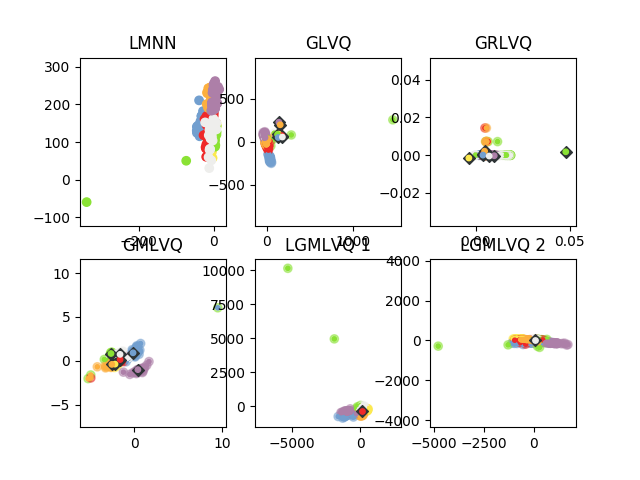
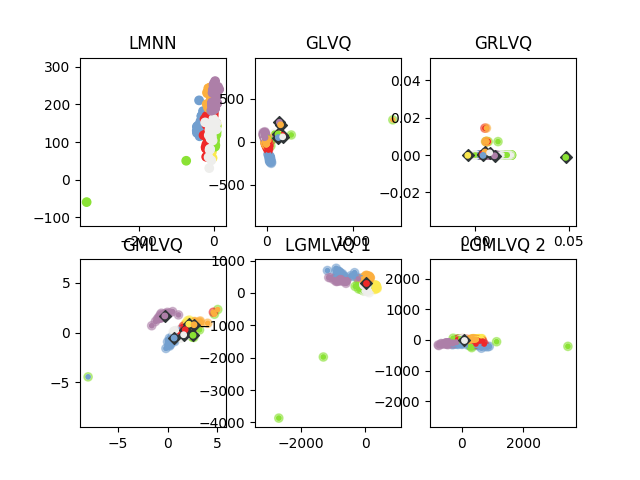
Pushing the docs for revision for branch: master, commit 72c1b3b9e6938310f164752b790ba2cb0652d63a

diff --git a/auto_examples/plot_benchmark.html b/auto_examples/plot_benchmark.html
@@ -177,8 +177,8 @@ and classification from each implementation. Because Glvq can’t project the da
 a PCA is used.</p>
 <img alt="../_images/sphx_glr_plot_benchmark_001.png" class="sphx-glr-single-img" src="../_images/sphx_glr_plot_benchmark_001.png" />
 <p class="sphx-glr-script-out">Out:</p>
-<div class="sphx-glr-script-out highlight-none notranslate"><div class="highlight"><pre><span></span>(&#39;variance coverd by projection:&#39;, 97.72361175875687)
-(&#39;variance coverd by projection:&#39;, 98.46641870021854)
+<div class="sphx-glr-script-out highlight-none notranslate"><div class="highlight"><pre><span></span>(&#39;variance coverd by projection:&#39;, 95.06013270079512)
+(&#39;variance coverd by projection:&#39;, 97.17190996838083)
 </pre></div>
 </div>
 <div class="line-block">
@@ -273,7 +273,7 @@ a PCA is used.</p>
 <span class="n">plt</span><span class="o">.</span><span class="n">show</span><span class="p">()</span>
 </pre></div>
 </div>
-<p><strong>Total running time of the script:</strong> ( 0 minutes  12.386 seconds)</p>
+<p><strong>Total running time of the script:</strong> ( 0 minutes  10.494 seconds)</p>
 <div class="sphx-glr-footer class sphx-glr-footer-example docutils container" id="sphx-glr-download-auto-examples-plot-benchmark-py">
 <div class="sphx-glr-download docutils container">
 <a class="reference download internal" download="" href="../_downloads/a7f670cf5f4a9d283c19341b866c3a66/plot_benchmark.py"><code class="xref download docutils literal notranslate"><span class="pre">Download</span> <span class="pre">Python</span> <span class="pre">source</span> <span class="pre">code:</span> <span class="pre">plot_benchmark.py</span></code></a></div>

diff --git a/auto_examples/plot_grmlvq.html b/auto_examples/plot_grmlvq.html
@@ -179,9 +179,9 @@ The projected data is shown in the right plot.</p>
 <img alt="../_images/sphx_glr_plot_grmlvq_001.png" class="sphx-glr-single-img" src="../_images/sphx_glr_plot_grmlvq_001.png" />
 <p class="sphx-glr-script-out">Out:</p>
 <div class="sphx-glr-script-out highlight-none notranslate"><div class="highlight"><pre><span></span>GRMLVQ:
-[0.7276588 0.2723412]
+[0.73412449 0.26587551]
 (&#39;variance coverd by projection:&#39;, 100.0)
-(&#39;classification accuracy:&#39;, 0.985)
+(&#39;classification accuracy:&#39;, 0.99)
 </pre></div>
 </div>
 <div class="line-block">
@@ -213,7 +213,7 @@ The projected data is shown in the right plot.</p>
 <span class="n">plt</span><span class="o">.</span><span class="n">show</span><span class="p">()</span>
 </pre></div>
 </div>
-<p><strong>Total running time of the script:</strong> ( 0 minutes  0.123 seconds)</p>
+<p><strong>Total running time of the script:</strong> ( 0 minutes  0.136 seconds)</p>
 <div class="sphx-glr-footer class sphx-glr-footer-example docutils container" id="sphx-glr-download-auto-examples-plot-grmlvq-py">
 <div class="sphx-glr-download docutils container">
 <a class="reference download internal" download="" href="../_downloads/70de408068c5619b5a4990e791de45cb/plot_grmlvq.py"><code class="xref download docutils literal notranslate"><span class="pre">Download</span> <span class="pre">Python</span> <span class="pre">source</span> <span class="pre">code:</span> <span class="pre">plot_grmlvq.py</span></code></a></div>

diff --git a/auto_examples/plot_lgmlvq.html b/auto_examples/plot_lgmlvq.html
@@ -181,7 +181,7 @@ The projected data is shown in the right plot.</p>
 <div class="sphx-glr-script-out highlight-none notranslate"><div class="highlight"><pre><span></span>LGMLVQ:
 (&#39;variance coverd by projection:&#39;, 100.0)
 (&#39;variance coverd by projection:&#39;, 100.0)
-(&#39;classification accuracy:&#39;, 0.795)
+(&#39;classification accuracy:&#39;, 0.855)
 </pre></div>
 </div>
 <div class="line-block">
@@ -212,7 +212,7 @@ The projected data is shown in the right plot.</p>
 <span class="n">plt</span><span class="o">.</span><span class="n">show</span><span class="p">()</span>
 </pre></div>
 </div>
-<p><strong>Total running time of the script:</strong> ( 0 minutes  0.312 seconds)</p>
+<p><strong>Total running time of the script:</strong> ( 0 minutes  0.272 seconds)</p>
 <div class="sphx-glr-footer class sphx-glr-footer-example docutils container" id="sphx-glr-download-auto-examples-plot-lgmlvq-py">
 <div class="sphx-glr-download docutils container">
 <a class="reference download internal" download="" href="../_downloads/7fcc01c4eb4286b99cd6ba954dfe04ec/plot_lgmlvq.py"><code class="xref download docutils literal notranslate"><span class="pre">Download</span> <span class="pre">Python</span> <span class="pre">source</span> <span class="pre">code:</span> <span class="pre">plot_lgmlvq.py</span></code></a></div>

diff --git a/auto_examples/plot_gmlvq.html b/auto_examples/plot_gmlvq.html
@@ -180,7 +180,7 @@ The projected data is shown in the right plot.</p>
 <p class="sphx-glr-script-out">Out:</p>
 <div class="sphx-glr-script-out highlight-none notranslate"><div class="highlight"><pre><span></span>GMLVQ:
 (&#39;variance coverd by projection:&#39;, 100.0)
-(&#39;classification accuracy:&#39;, 1.0)
+(&#39;classification accuracy:&#39;, 0.995)
 </pre></div>
 </div>
 <div class="line-block">
@@ -211,7 +211,7 @@ The projected data is shown in the right plot.</p>
 <span class="n">plt</span><span class="o">.</span><span class="n">show</span><span class="p">()</span>
 </pre></div>
 </div>
-<p><strong>Total running time of the script:</strong> ( 0 minutes  0.112 seconds)</p>
+<p><strong>Total running time of the script:</strong> ( 0 minutes  0.162 seconds)</p>
 <div class="sphx-glr-footer class sphx-glr-footer-example docutils container" id="sphx-glr-download-auto-examples-plot-gmlvq-py">
 <div class="sphx-glr-download docutils container">
 <a class="reference download internal" download="" href="../_downloads/036e9d669a4bbf4beea27e49a36bb645/plot_gmlvq.py"><code class="xref download docutils literal notranslate"><span class="pre">Download</span> <span class="pre">Python</span> <span class="pre">source</span> <span class="pre">code:</span> <span class="pre">plot_gmlvq.py</span></code></a></div>

diff --git a/auto_examples/plot_lmrslvq.html b/auto_examples/plot_lmrslvq.html
@@ -182,7 +182,7 @@ right plot.</p>
 <div class="sphx-glr-script-out highlight-none notranslate"><div class="highlight"><pre><span></span>LMRSLVQ:
 (&#39;variance coverd by projection:&#39;, 100.0)
 (&#39;variance coverd by projection:&#39;, 100.0)
-(&#39;classification accuracy:&#39;, 0.755)
+(&#39;classification accuracy:&#39;, 0.725)
 </pre></div>
 </div>
 <div class="line-block">
@@ -213,7 +213,7 @@ right plot.</p>
 <span class="n">plt</span><span class="o">.</span><span class="n">show</span><span class="p">()</span>
 </pre></div>
 </div>
-<p><strong>Total running time of the script:</strong> ( 0 minutes  4.618 seconds)</p>
+<p><strong>Total running time of the script:</strong> ( 0 minutes  3.334 seconds)</p>
 <div class="sphx-glr-footer class sphx-glr-footer-example docutils container" id="sphx-glr-download-auto-examples-plot-lmrslvq-py">
 <div class="sphx-glr-download docutils container">
 <a class="reference download internal" download="" href="../_downloads/96d38984e50faf4c22992f9bc641783d/plot_lmrslvq.py"><code class="xref download docutils literal notranslate"><span class="pre">Download</span> <span class="pre">Python</span> <span class="pre">source</span> <span class="pre">code:</span> <span class="pre">plot_lmrslvq.py</span></code></a></div>

diff --git a/auto_examples/plot_grlvq.html b/auto_examples/plot_grlvq.html
@@ -212,7 +212,7 @@ The projected data is shown in the right plot.</p>
 <span class="n">plt</span><span class="o">.</span><span class="n">show</span><span class="p">()</span>
 </pre></div>
 </div>
-<p><strong>Total running time of the script:</strong> ( 0 minutes  6.246 seconds)</p>
+<p><strong>Total running time of the script:</strong> ( 0 minutes  2.464 seconds)</p>
 <div class="sphx-glr-footer class sphx-glr-footer-example docutils container" id="sphx-glr-download-auto-examples-plot-grlvq-py">
 <div class="sphx-glr-download docutils container">
 <a class="reference download internal" download="" href="../_downloads/3903fd6ed2e272412f16398fc112e0cb/plot_grlvq.py"><code class="xref download docutils literal notranslate"><span class="pre">Download</span> <span class="pre">Python</span> <span class="pre">source</span> <span class="pre">code:</span> <span class="pre">plot_grlvq.py</span></code></a></div>

diff --git a/auto_examples/plot_mrslvq.html b/auto_examples/plot_mrslvq.html
@@ -213,7 +213,7 @@ right plot.</p>
 <span class="n">plt</span><span class="o">.</span><span class="n">show</span><span class="p">()</span>
 </pre></div>
 </div>
-<p><strong>Total running time of the script:</strong> ( 0 minutes  1.608 seconds)</p>
+<p><strong>Total running time of the script:</strong> ( 0 minutes  1.870 seconds)</p>
 <div class="sphx-glr-footer class sphx-glr-footer-example docutils container" id="sphx-glr-download-auto-examples-plot-mrslvq-py">
 <div class="sphx-glr-download docutils container">
 <a class="reference download internal" download="" href="../_downloads/d55c82f9a5a43446894e28c4fff1b696/plot_mrslvq.py"><code class="xref download docutils literal notranslate"><span class="pre">Download</span> <span class="pre">Python</span> <span class="pre">source</span> <span class="pre">code:</span> <span class="pre">plot_mrslvq.py</span></code></a></div>

diff --git a/auto_examples/plot_rslvq.html b/auto_examples/plot_rslvq.html
@@ -210,7 +210,7 @@ not implemented!
 <span class="n">plt</span><span class="o">.</span><span class="n">show</span><span class="p">()</span>
 </pre></div>
 </div>
-<p><strong>Total running time of the script:</strong> ( 0 minutes  0.824 seconds)</p>
+<p><strong>Total running time of the script:</strong> ( 0 minutes  0.782 seconds)</p>
 <div class="sphx-glr-footer class sphx-glr-footer-example docutils container" id="sphx-glr-download-auto-examples-plot-rslvq-py">
 <div class="sphx-glr-download docutils container">
 <a class="reference download internal" download="" href="../_downloads/4f5a6df5f5567dcf5790e1372dc57203/plot_rslvq.py"><code class="xref download docutils literal notranslate"><span class="pre">Download</span> <span class="pre">Python</span> <span class="pre">source</span> <span class="pre">code:</span> <span class="pre">plot_rslvq.py</span></code></a></div>

diff --git a/auto_examples/plot_glvq.html b/auto_examples/plot_glvq.html
@@ -208,7 +208,7 @@ not implemented!
 <span class="n">plt</span><span class="o">.</span><span class="n">show</span><span class="p">()</span>
 </pre></div>
 </div>
-<p><strong>Total running time of the script:</strong> ( 0 minutes  0.106 seconds)</p>
+<p><strong>Total running time of the script:</strong> ( 0 minutes  0.084 seconds)</p>
 <div class="sphx-glr-footer class sphx-glr-footer-example docutils container" id="sphx-glr-download-auto-examples-plot-glvq-py">
 <div class="sphx-glr-download docutils container">
 <a class="reference download internal" download="" href="../_downloads/05b6dd43dddc7c84eefbe9660e1cf3ca/plot_glvq.py"><code class="xref download docutils literal notranslate"><span class="pre">Download</span> <span class="pre">Python</span> <span class="pre">source</span> <span class="pre">code:</span> <span class="pre">plot_glvq.py</span></code></a></div>

diff --git a/_static/language_data.js b/_static/language_data.js
@@ -5,7 +5,7 @@
  * This script contains the language-specific data used by searchtools.js,
  * namely the list of stopwords, stemmer, scorer and splitter.
  *
- * :copyright: Copyright 2007-2018 by the Sphinx team, see AUTHORS.
+ * :copyright: Copyright 2007-2019 by the Sphinx team, see AUTHORS.
  * :license: BSD, see LICENSE for details.
  *
  */

diff --git a/_static/searchtools.js b/_static/searchtools.js
@@ -4,7 +4,7 @@
  *
  * Sphinx JavaScript utilities for the full-text search.
  *
- * :copyright: Copyright 2007-2018 by the Sphinx team, see AUTHORS.
+ * :copyright: Copyright 2007-2019 by the Sphinx team, see AUTHORS.
  * :license: BSD, see LICENSE for details.
  *
  */

diff --git a/_static/doctools.js b/_static/doctools.js
@@ -4,7 +4,7 @@
  *
  * Sphinx JavaScript utilities for all documentation.
  *
- * :copyright: Copyright 2007-2018 by the Sphinx team, see AUTHORS.
+ * :copyright: Copyright 2007-2019 by the Sphinx team, see AUTHORS.
  * :license: BSD, see LICENSE for details.
  *
  */
